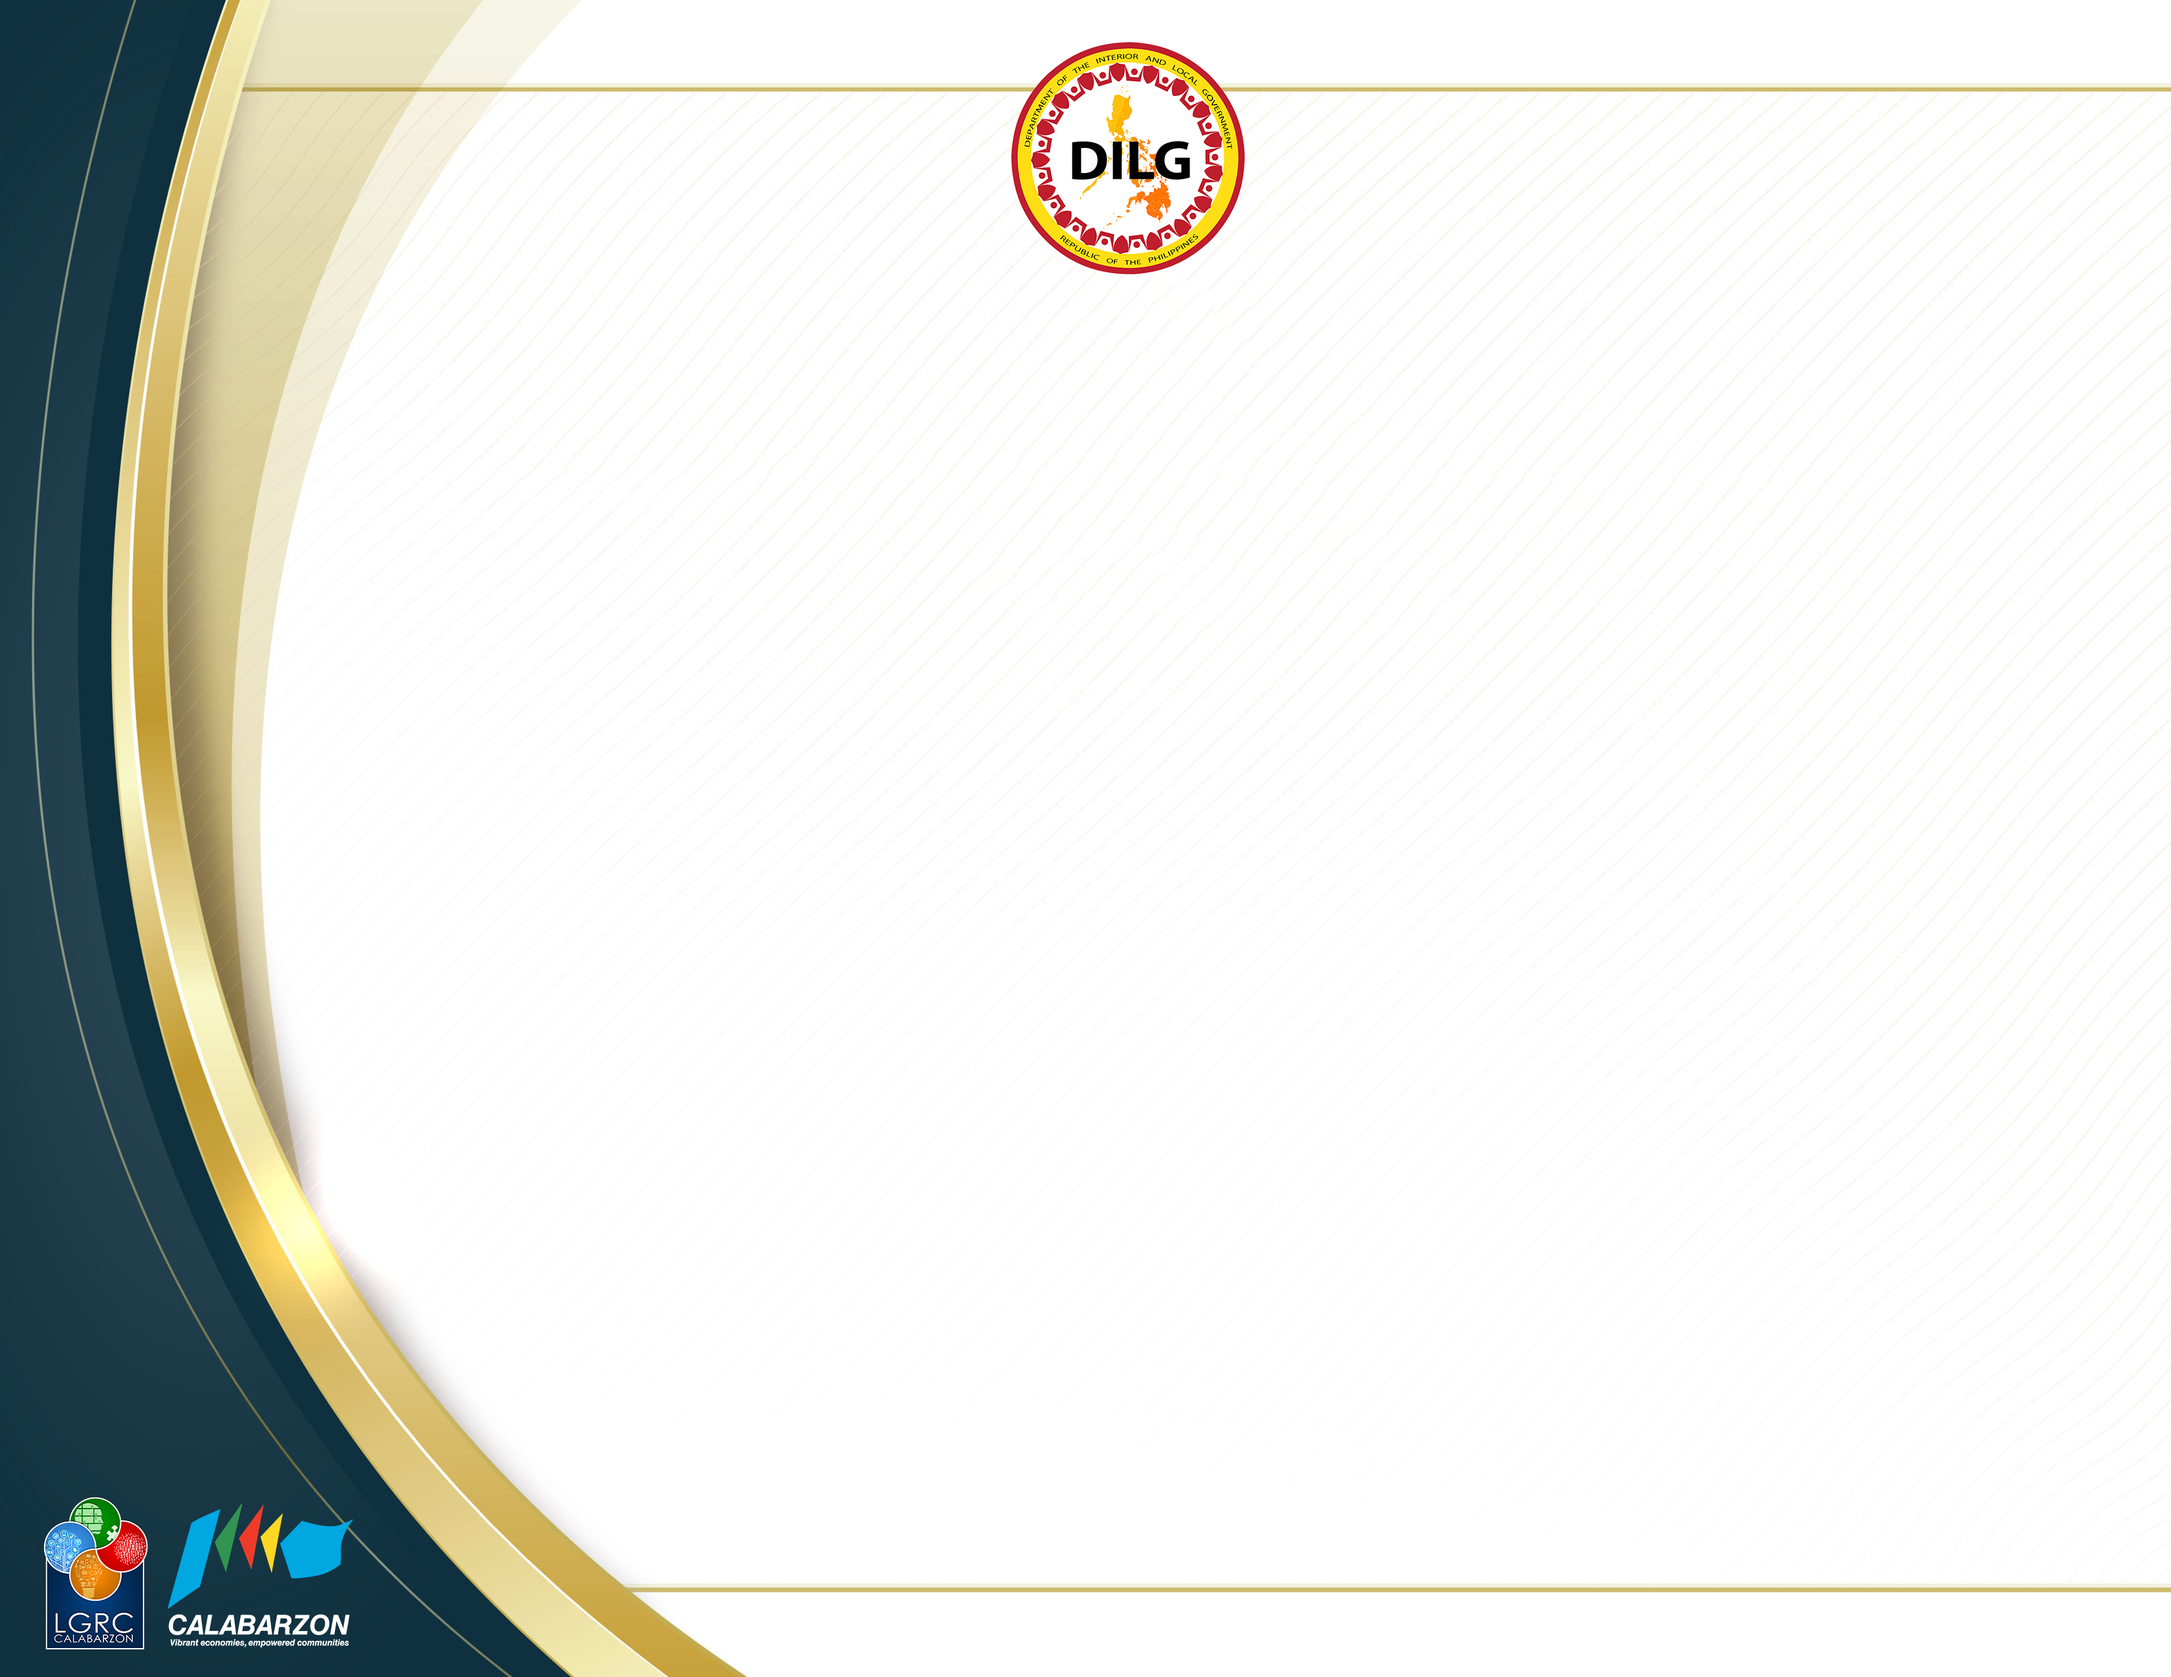
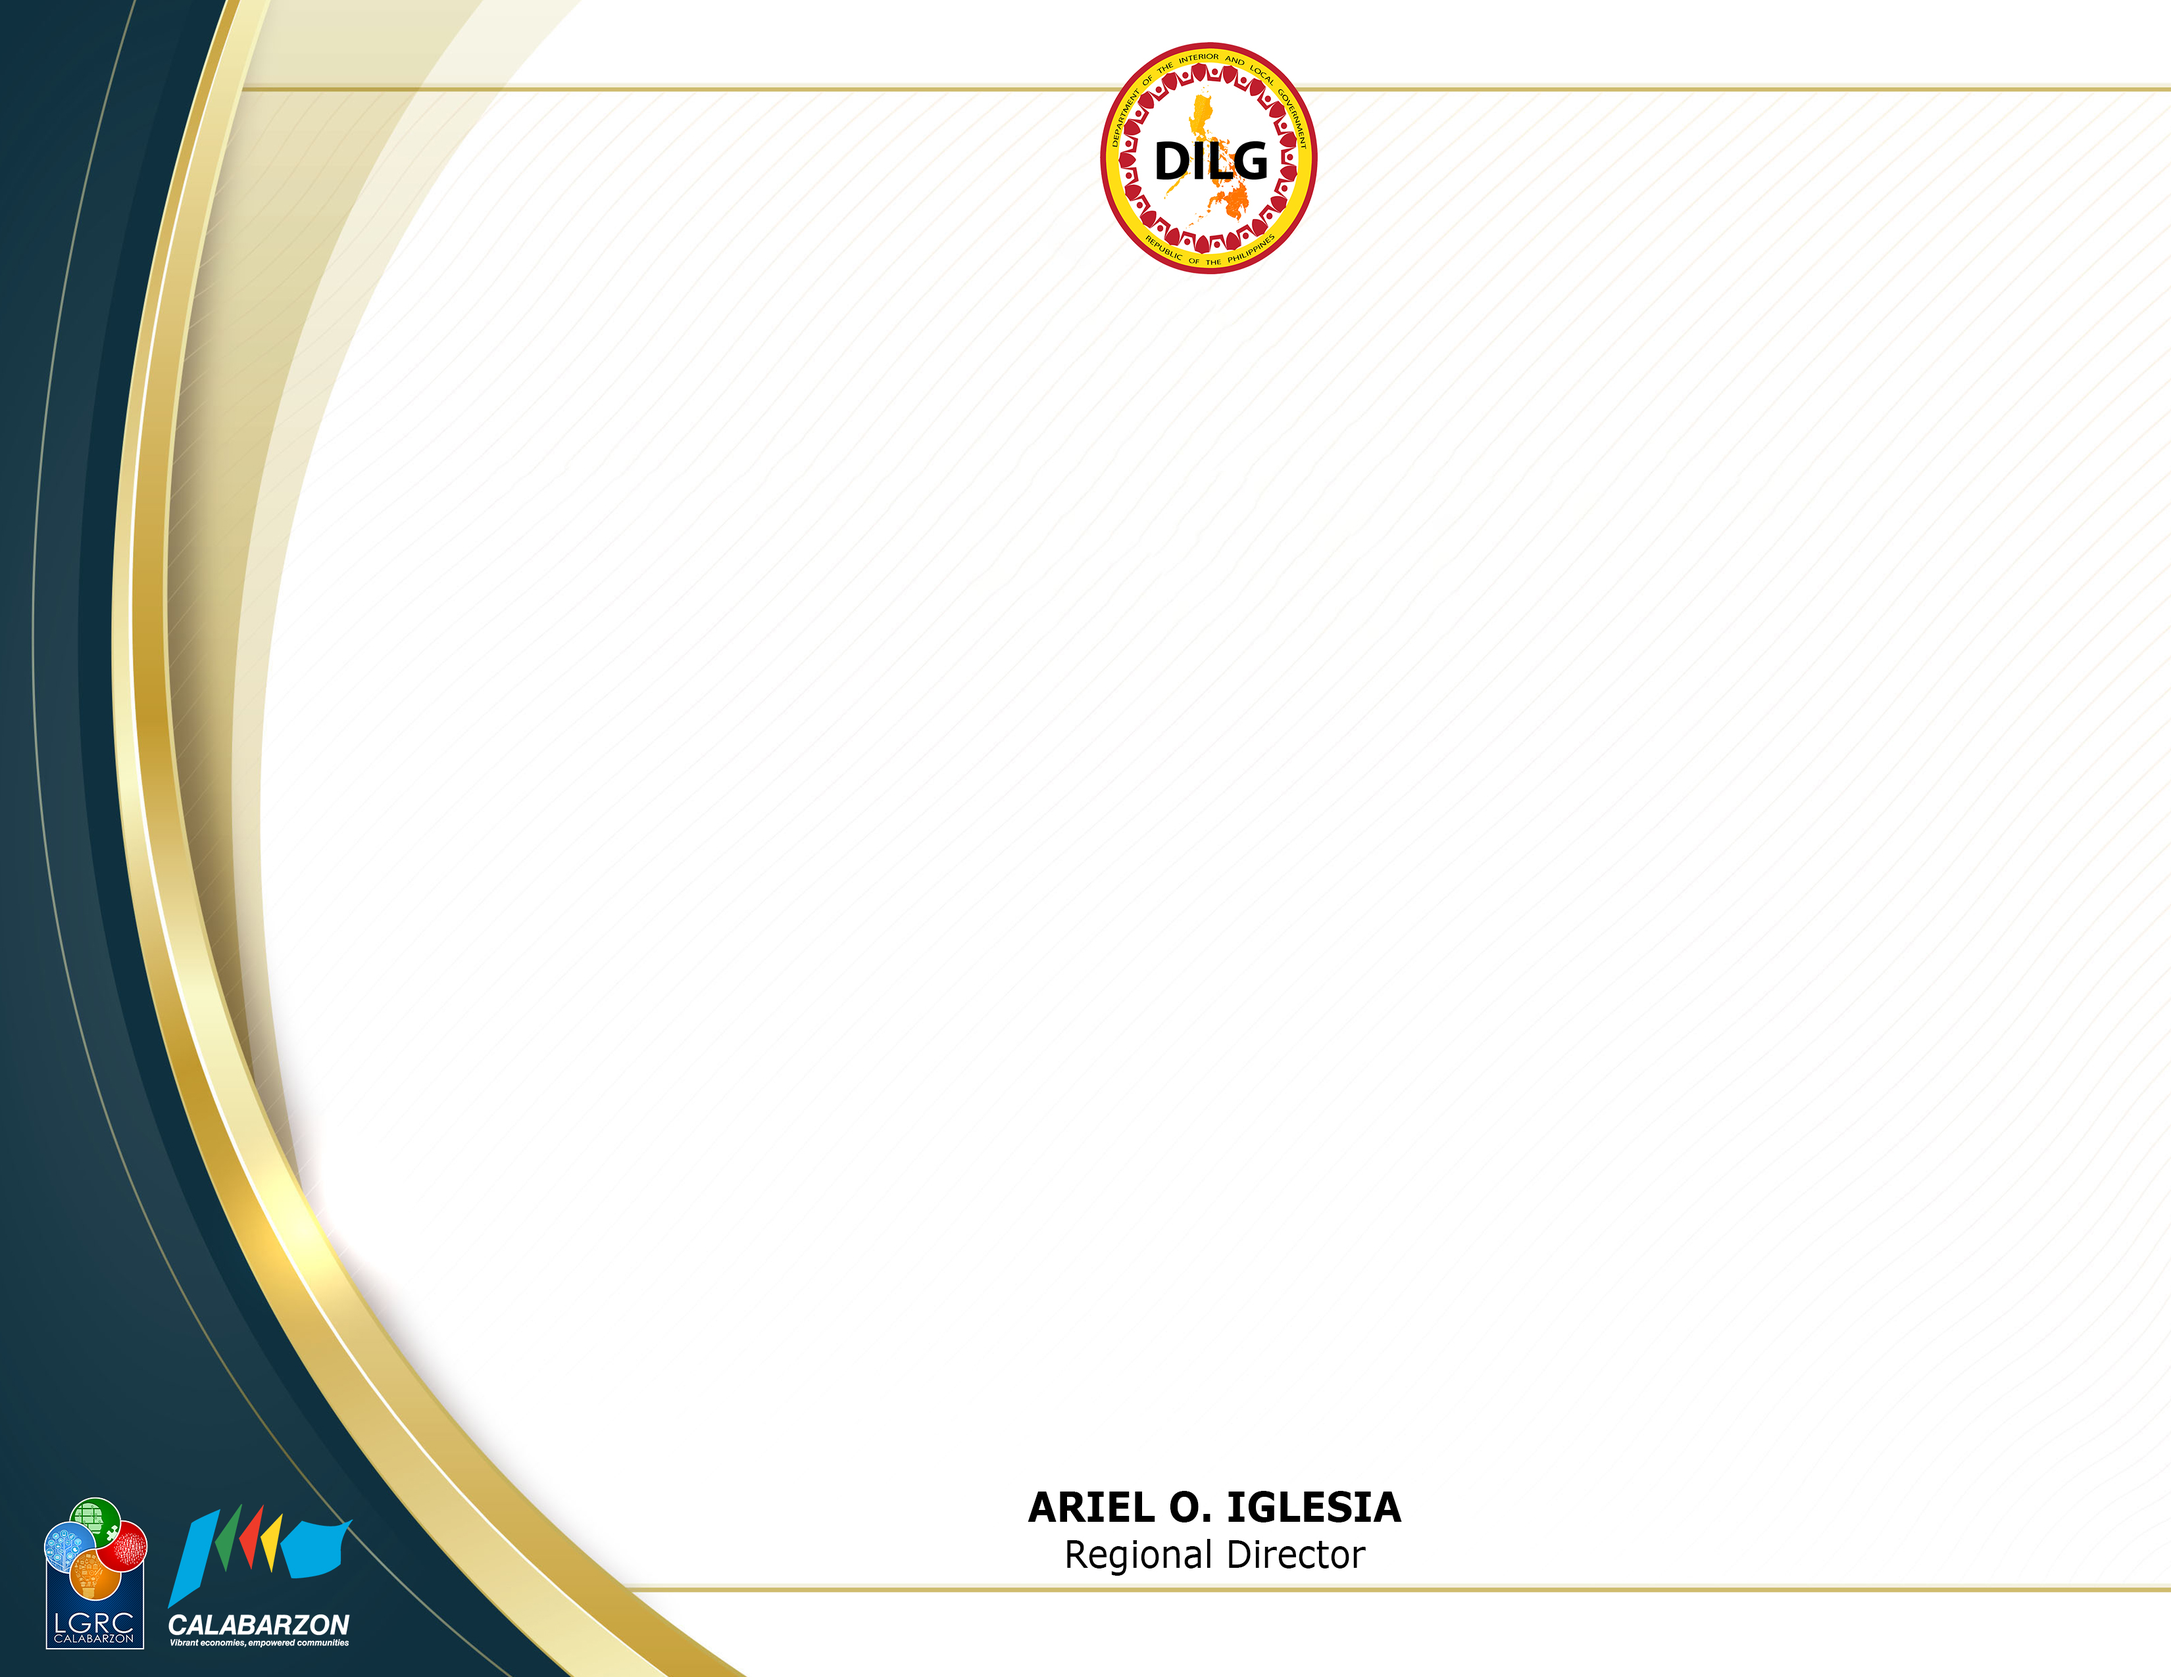
code refactor

Changed region(s): [[0.4682, 0.0, 0.6242, 0.1859], [0.4682, 0.8675, 0.6555, 0.9294]]

diff --git a/TemplateGenerator/manager/TemplateGenerator.php b/TemplateGenerator/manager/TemplateGenerator.php
@@ -94,19 +94,19 @@ class TemplateGenerator
 			$pdf->SetFont('verdana', '', 12);
 			$pdf->writeHTML($body, true, false, true, false, '');
 
-			if ($data['signature_type'] == 'manual') {
-				$bottom1 = '<span style="text-align:center;"><br><br><br><br>';
-			} else {
-				$bottom1 = '<span style="text-align:center;"><br><img src="../../images/template/rd_signature.jpg" style="width:100px; height:50px;"><br>';
-			}
-			$bottom1.= '<b style="font-family:Verdana; font-weight:bold;"><u>ARIEL O. IGLESIA</u></b>';
-			$pdf->SetFont('verdanab', '',11);
-			$pdf->writeHTML($bottom1, true, false, true, false, '');
+			// if ($data['signature_type'] == 'manual') {
+			// 	$bottom1 = '<span style="text-align:center;"><br><br><br><br>';
+			// } else {
+			// 	$bottom1 = '<span style="text-align:center;"><br><img src="../../images/template/rd_signature.jpg" style="width:100px; height:50px;"><br>';
+			// }
+			// $bottom1.= '<b style="font-family:Verdana; font-weight:bold;"><u>ARIEL O. IGLESIA</u></b>';
+			// $pdf->SetFont('verdanab', '',11);
+			// $pdf->writeHTML($bottom1, true, false, true, false, '');
 
-			$bottom2 = '<span style="text-align:center;">Regional Director</span>';
-			$bottom2.= '</span></p>';
-			$pdf->SetFont('verdana', '', 12);
-			$pdf->writeHTML($bottom2, true, false, true, false, '');
+			// $bottom2 = '<span style="text-align:center;">Regional Director</span>';
+			// $bottom2.= '</span></p>';
+			// $pdf->SetFont('verdana', '', 12);
+			// $pdf->writeHTML($bottom2, true, false, true, false, '');
 
 		} elseif ($data['certificate_type'] == "CERTIFICATE OF APPRECIATION") {
 			$top = '<p style="text-align:center; font-size:5pt;"><br><br><br><br><br><br><br><br><br><br><br><br><br><br><br><br><br><br><br>';
@@ -134,7 +134,7 @@ class TemplateGenerator
 			$pdf->writeHTML($participant, true, false, true, false, '');
 			
 			$body = '<br><span style="font-family:Verdana Regular; text-align:center;">';
-			$body.= '<br>for his/her invaluable contribution as a <b>Resource Speaker</b><br>';
+			$body.= '<br><br>for his/her invaluable contribution as a <b>Resource Speaker</b><br>';
 			$body.= 'in the successful conduct of the activity entitled<br>';
 			$body.= '"'.$data['activity_title'].'" held on<br>';
 			$body.= $data['date_range'];
@@ -144,21 +144,21 @@ class TemplateGenerator
 			$pdf->SetFont('verdana', '', 12);
 			$pdf->writeHTML($body, true, false, true, false, '');
 
-			$bottom1 = '';
-			if ($data['signature_type'] == 'manual') {
-				$bottom1 = '<span style="text-align:center;"><br><br><br><br>';
-			} else {
-				$bottom1 = '<span style="text-align:center;"><br><img src="../../images/template/rd_signature.jpg" style="width:100px; height:50px;"><br>';
-			}
+			// $bottom1 = '';
+			// if ($data['signature_type'] == 'manual') {
+			// 	$bottom1 = '<span style="text-align:center;"><br><br><br><br>';
+			// } else {
+			// 	$bottom1 = '<span style="text-align:center;"><br><img src="../../images/template/rd_signature.jpg" style="width:100px; height:50px;"><br>';
+			// }
 
-			$bottom1.= '<b style="font-family:Verdana; font-weight:bold;"><u>ARIEL O. IGLESIA</u></b>';
-			$pdf->SetFont('verdanab', '',11);
-			$pdf->writeHTML($bottom1, true, false, true, false, '');
+			// $bottom1.= '<b style="font-family:Verdana; font-weight:bold;"><u>ARIEL O. IGLESIA</u></b>';
+			// $pdf->SetFont('verdanab', '',11);
+			// $pdf->writeHTML($bottom1, true, false, true, false, '');
 
-			$bottom2 = '<span style="text-align:center;">Regional Director</span>';
-			$bottom2.= '</span></p>';
-			$pdf->SetFont('verdana', '', 12);
-			$pdf->writeHTML($bottom2, true, false, true, false, '');
+			// $bottom2 = '<span style="text-align:center;">Regional Director</span>';
+			// $bottom2.= '</span></p>';
+			// $pdf->SetFont('verdana', '', 12);
+			// $pdf->writeHTML($bottom2, true, false, true, false, '');
 
 
 
@@ -183,7 +183,7 @@ class TemplateGenerator
 			// $html.= ' at '.$data['activity_venue'];
 			// $html.= '.<br><br>Awarded this <b>'.$data['date_given_day'].'</b> day of <b>'.$data['date_given_my'].'</b> at <b>'.$data['issued_place'].'</b></div>
 	  //           </div>';
-			$pdf->writeHTML($html, true, false, true, false, '');
+			// $pdf->writeHTML($html, true, false, true, false, '');
 		} elseif ($data['certificate_type'] == "CERTIFICATE OF COMPLETION") {
 			$html = '<br><br><div style="text-align:center; font-family:Verdana, sans-serif; font-size:13pt;"><br><br><br><br><br><b>
             is hereby given to</b><br><div style="font-family:Calibri (Body), sans-serif;font-weight:bold;font-size:35pt; text-align:center;">'.$attendee.'</div><br><div style="font-family:Verdana, sans-serif;font-size:16pt; text-align:center;">For having successfully completed <br><b>'.$data['activity_title'].'</b><br>Held on '.$data['date_range'].' via '.$data['activity_venue'].'.<br><br>Given this <b>'.$data['date_given_day'].'</b> day of <b>'.$data['date_given_my'].'.</b></div>

diff --git a/TemplateGenerator/entity/template.php b/TemplateGenerator/entity/template.php
@@ -155,7 +155,7 @@ if ($signature_type == 'manual') {
                 // $img_file = '../../images/template/base_template_no_esig.jpg';
 
                 // $this->Image(file, LEFT, RIGHT, WIDTH, HEIGHT, '', '', '', false, 300, '', false, false, 0);
-                $this->Image($img_file, 5, 8, 270, 198, '', '', '', false, 300, '', false, false, 0);
+                $this->Image($img_file, 10, 8, 275, 198, '', '', '', false, 300, '', false, false, 0);
                 // restore auto-page-break status
                 $this->SetAutoPageBreak($auto_page_break, $bMargin);
                 // set the starting point for the page content
@@ -221,7 +221,7 @@ if ($signature_type == 'manual') {
                 // set bacground image
                 // $img_file = K_PATH_IMAGES.'image_demo.jpg';
                 // $img_file = '../../images/template/base_template.jpg';
-                $img_file = '../../images/template/COP.jpg';
+                $img_file = '../../images/template/COP_ESIG.jpg';
 
                 // $this->Image(file, LEFT, RIGHT, WIDTH, HEIGHT, '', '', '', false, 300, '', false, false, 0);
                 $this->Image($img_file, 8, 8, 280, 198, '', '', '', false, 300, '', false, false, 0);
@@ -244,10 +244,10 @@ if ($signature_type == 'manual') {
                 // set bacground image
                 // $img_file = K_PATH_IMAGES.'image_demo.jpg';
                 // $img_file = '../../images/template/COA_with_esig.jpg';
-                 $img_file = '../../images/template/COA.jpg';
+                 $img_file = '../../images/template/COA_ESIG.jpg';
 
                 // $this->Image(file, LEFT, RIGHT, WIDTH, HEIGHT, '', '', '', false, 300, '', false, false, 0);
-                $this->Image($img_file, 5, 8, 270, 198, '', '', '', false, 300, '', false, false, 0);
+                $this->Image($img_file, 10, 8, 275, 198, '', '', '', false, 300, '', false, false, 0);
                 // restore auto-page-break status
                 $this->SetAutoPageBreak($auto_page_break, $bMargin);
                 // set the starting point for the page content
@@ -323,7 +323,11 @@ $pdf->setHeaderFont(Array(PDF_FONT_NAME_MAIN, '', PDF_FONT_SIZE_MAIN));
 $pdf->SetDefaultMonospacedFont(PDF_FONT_MONOSPACED);
 
 // set margins
-$pdf->SetMargins(25, 0, 25);
+if ($type == 'b') {
+    $pdf->SetMargins(45, 0, 15);
+} else {
+    $pdf->SetMargins(25, 0, 25);
+}
 $pdf->SetHeaderMargin(0);
 $pdf->SetFooterMargin(0);
 
